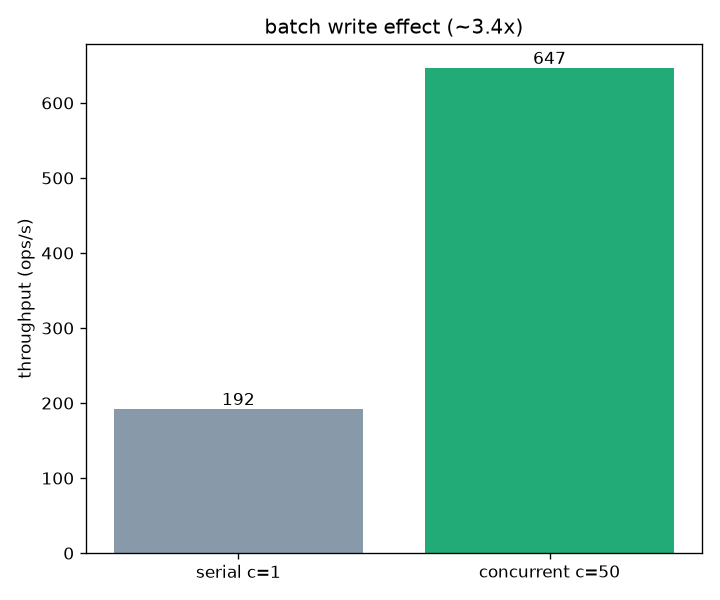
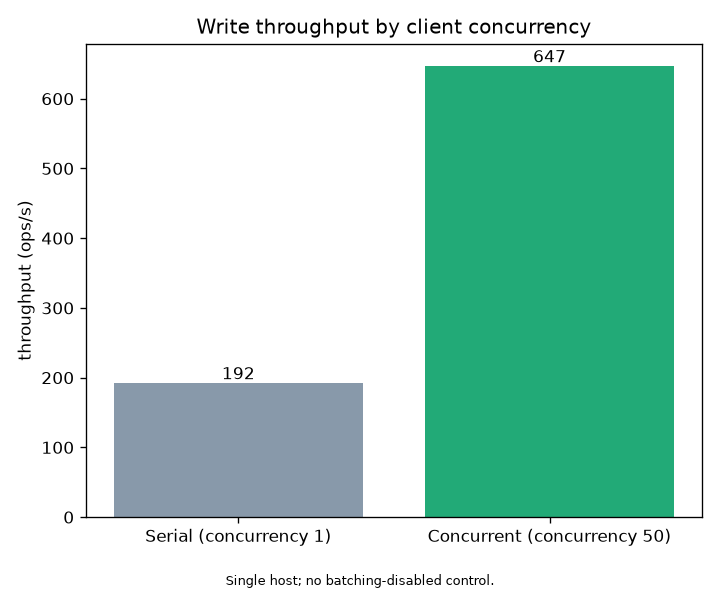
docs: clarify recovery and benchmark evidence

diff --git a/benchmark_raft_sharded.py b/benchmark_raft_sharded.py
@@ -7,7 +7,7 @@ Measurements
 ============
 1. Throughput for `/set`, `/get`, and `/txn` in operations per second.
 2. Per-operation p50, p95, p99, and maximum end-to-end latency.
-3. Batch-write effect: serial `/set` requests versus concurrent requests.
+3. Client concurrency: serial `/set` requests versus concurrent requests.
 4. Shard distribution: keys concentrated on one shard versus spread across
    all shards in the same three-node cluster.
 5. Throughput and p99 latency at concurrency levels 1, 10, 50, 100, and 200.
@@ -488,9 +488,9 @@ def test_batch(cl, total, concurrent_c, repeats):
     """
     Compare serial and concurrent writes from independently cleared data state.
     Serial requests normally occupy one Raft round each. Under concurrency,
-    `batch_loop` can merge up to 20 requests arriving within its 5 ms window.
+    `batch_loop` drains up to 20 requests already queued; 5 ms is its idle wait.
     """
-    print(f"\n=== Batch-write effect: serial c=1 vs concurrent c={concurrent_c} "
+    print(f"\n=== Client concurrency: serial c=1 vs concurrent c={concurrent_c} "
           f"({repeats} runs per arm) ===")
     serial, m_s = median_run(cl, "set_serial",
                              lambda: gen_kv("batch_serial_", total, cl.value_size),
@@ -624,7 +624,9 @@ def plot_pair(pair, labels, title, fname, outdir):
     for b, v in zip(bars, tput):
         ax.text(b.get_x() + b.get_width() / 2, v, f"{v:.0f}",
                 ha="center", va="bottom")
-    fig.tight_layout()
+    fig.text(0.5, 0.025, "Single host; no batching-disabled control.",
+             ha="center", fontsize=8)
+    fig.tight_layout(rect=(0, 0.06, 1, 1))
     p = os.path.join(outdir, fname)
     fig.savefig(p, dpi=120)
     plt.close(fig)
@@ -746,11 +748,11 @@ def main():
             plot_latency_dist(per_op, args.outdir)
         if batch_pair:
             plot_pair(batch_pair, ["serial c=1", f"concurrent c={args.per_op_concurrency}"],
-                      f"batch write effect (~{batch_speedup:.1f}x)",
+                      "Write throughput by client concurrency",
                       "batch_effect.png", args.outdir)
         if shard_pair:
             plot_pair(shard_pair, ["1 shard (concentrated)", f"{num_shards} shards (spread)"],
-                      f"write throughput: concentrated vs spread ({shard_speedup:.2f}x)",
+                      "Single-machine throughput by shard distribution",
                       "shard_scalability.png", args.outdir)
     else:
         print("  WARNING: matplotlib is unavailable; PNG generation skipped")
@@ -764,7 +766,7 @@ def main():
     print("  1. HTTP/1.0 creates a new TCP connection and server thread per request.")
     print("  2. JSON encoding and the Python GIL add CPU and scheduling overhead.")
     print("  3. The legacy JSON backend rewrites the full store on each commit.")
-    print("  4. BATCH_TIMEOUT=5ms trades additional queueing latency for batching opportunities.")
+    print("  4. BATCH_TIMEOUT=5ms is an idle wait, not a fixed batch collection window.")
     print("The benchmark does not isolate these costs and should not be used to attribute")
     print("the observed limit to any single subsystem.")
     print("=" * 70)

diff --git a/README.md b/README.md
@@ -4,16 +4,16 @@
 [![Python](https://img.shields.io/badge/Python-3.12%20%7C%203.14-3776AB?logo=python&logoColor=white)](https://github.com/96528025/distributed-kv/actions/workflows/ci.yml)
 [![MIT](https://img.shields.io/badge/license-MIT-green.svg)](LICENSE)
 
-**A three-process key-value store built in standard-library Python to explore replication, leader failure, and crash recovery.** Clients can contact any node; the node routes each key to its shard leader, which replicates writes to a majority before reporting success. An optional write-ahead log restores committed data after process crashes.
+A Python key-value store with per-shard leaders, replicated in-memory logs, batched writes, and an optional write-ahead log for local applied-state recovery. The default demo runs three processes on one machine and accepts client requests at any node.
 
-The project demonstrates **distributed-systems implementation, storage engineering, failure injection, and observability**. It implements a documented subset of Raft, with remaining safety gaps tracked explicitly. The three shards distribute leadership and replication work; every node still stores every key.
+Each node stores every key. Sharding separates coordination groups; it does not partition storage capacity. The implementation covers a documented subset of Raft, with open safety issues tracked in [RAFT_CORRECTNESS.md](docs/RAFT_CORRECTNESS.md).
 
 ## Engineering highlights
 
 | Capability | What the code does | Where to inspect it |
 | --- | --- | --- |
 | Replicated writes | Per-shard leader routing, concurrent peer RPCs, majority acknowledgements, batches of up to 20 queued operations | [`node_raft_sharded.py`](node_raft_sharded.py): `batch_loop`, `_handle_set`, `_handle_delete` |
-| Election recovery | Persists each shard's term and vote before dependent replies; refuses stale-log candidates and invalid persisted topology | `persist_hard_state`, `_handle_vote`; [`test_raft_correctness.py`](test_raft_correctness.py) |
+| Election recovery | Persists each shard's term and vote before dependent replies; refuses stale-log candidates and a changed persisted shard count | `persist_hard_state`, `_handle_vote`; [`test_raft_correctness.py`](test_raft_correctness.py) |
 | Stale-leader rejection | Requires same-term quorum confirmation before a leader serves `/get`; an isolated old leader returns `503` | `confirm_read_quorum`; [`test_read_quorum.py`](test_read_quorum.py) |
 | Storage recovery | CRC32-framed committed-operation WAL, SHA-256-verified checkpoints, torn-tail recovery, idempotent replay | [`storage.py`](storage.py), [`test_wal.py`](test_wal.py) |
 | Ordered application | Applies every entry covered by a commit, including earlier entries whose client requests timed out | `apply_committed`; [`test_apply_order.py`](test_apply_order.py) |
@@ -69,6 +69,8 @@ Each process hosts all three shard groups. Each group has its own term, vote, le
 
 **Write.** A follower forwards the request to its known shard leader. The leader appends queued operations, sends its retained log window to peers concurrently, waits up to one second for a majority, and applies/persists committed entries before replying. A timeout leaves the entries in the log: a later successful replication round may commit them. There is no client request-ID deduplication, so a timeout is not proof that a write was aborted.
 
+Followers relay the leader's HTTP status and JSON object response, adding `forwarded_by`. A missing key returns `404` through either the leader or a follower. An unreachable leader or an unusable upstream response produces `503`. The forwarding timeout is 0.5 seconds, while the leader's majority wait can take up to one second; a forwarded request can therefore time out before the leader finishes. A timeout does not establish whether a write was committed.
+
 **Read.** A follower forwards `/get`. The leader probes peers with current-term `AppendEntries`, checks that a majority still recognizes its term, and steps down if a higher term is observed. This prevents the tested isolated-old-leader stale read. It is a quorum-validated leader read, with full ReadIndex/application-barrier semantics still open.
 
 **Compaction.** A shard whose log exceeds 20 entries may compact its applied prefix. A follower behind the retained window can install a snapshot. Snapshots currently contain the shared store, so shard isolation during snapshot installation remains a tracked correctness gap.
@@ -83,7 +85,11 @@ Each process hosts all three shard groups. Each group has its own term, vote, le
 | Raft snapshot | Compacted state for follower catch-up | Stores the compaction boundary; current shared-store snapshot scope is tracked as C7 |
 | State-machine WAL | Restores committed key-value operations | Frames contain magic, length, versioned JSON, and CRC32; optional per-commit `fsync` |
 
-The WAL is **not a durable Raft replication log**: uncommitted Raft entries are not persisted. Checkpoints record the store and per-shard applied indexes, use a SHA-256 digest, and publish via `fsync` plus atomic rename before truncating the WAL. Rotation occurs at 1,000 records or 8 MiB. Replay skips already-applied indexes, trims an incomplete final frame, and rejects detected corruption rather than guessing.
+The WAL is **not a durable Raft replication log**: uncommitted Raft entries are not persisted. Checkpoints record the store and per-shard applied indexes, use a SHA-256 digest, and publish via `fsync` plus atomic rename before truncating the WAL. Rotation occurs at 1,000 records or 8 MiB. Replay skips already-applied indexes.
+
+The WAL persists local applied operations, not the Raft replication log. Recovery rejects checksum failures, invalid frame boundaries, implausible lengths, and a frame length that overruns the file when a later complete CRC-valid frame is present. Recovery leaves the WAL unchanged when it rejects corruption. An incomplete final frame may be truncated to the last valid boundary. The length field is not checksummed, so these rules do not detect every possible corruption pattern.
+
+Persisted Raft hard state includes the term and vote. Startup checks the stored shard count; it does not validate a complete membership identity.
 
 Default WAL appends flush to the OS; `KV_FSYNC=1` requests stronger disk durability. Process-kill tests exercise process-crash recovery, not physical power-loss recovery. See [`docs/ARCHITECTURE.md`](docs/ARCHITECTURE.md) for locking and persistence ordering.
 
@@ -130,7 +136,9 @@ python3 test_timers.py
 | `test_timers.py` | 5 | Wall-clock changes do not change election or lock-lease timing |
 | `test_read_quorum.py` | 4 | Quorum decisions and real `SIGSTOP`/`SIGCONT` stale-leader regression |
 
-The process-based suites manage local node processes and fixed ports; run them in an isolated checkout without another demo cluster using those ports.
+The test suites exercise real node processes, leader suspension, process restarts, WAL corruption, checkpoint recovery, HTTP contracts, transactions, and ordered application. The checks establish the behavior of those scenarios; they do not prove complete Raft safety.
+
+`test_raft_sharded.py` prints its passing-check count and exits unsuccessfully if any check fails. It manages only the node processes it starts and keeps generated state in a temporary directory. Cleanup does not terminate nodes from other checkouts.
 
 ## Measured performance and its limits
 

diff --git a/docs/ARCHITECTURE.md b/docs/ARCHITECTURE.md
@@ -48,8 +48,8 @@ request router -- hash(key) --> shard Raft group
   +---- forward to leader --------+
                                   |
                                   +--> replicate to a majority
-                                  +--> persist committed state
-                                  +--> apply to local state machine
+                                  +--> apply the committed prefix in order
+                                  +--> persist local applied state
                                   +--> respond
 ```
 
@@ -91,8 +91,8 @@ Reads route to the shard leader. Before returning its local value, the leader pr
 majority in its current term. If it cannot confirm a majority, it refuses the read. This
 prevents the demonstrated stale-old-leader failure in which a partitioned former leader
 continues serving old state. A follower relays the leader's status code and body
-unchanged, adding `forwarded_by`, so a missing key is a 404 through any node; 503
-`leader unreachable` is reserved for a transport failure.
+with `forwarded_by` added to JSON objects, so a missing key is a 404 through any node.
+An unreachable leader or an unusable upstream response produces 503.
 
 This barrier is narrower than the Raft ReadIndex protocol. It does not independently prove
 that the leader has applied every committed entry before reading. Complete linearizability
@@ -249,3 +249,11 @@ The order is safety before speed:
 This roadmap is intentionally test-shaped: every change should begin with a reproducible
 failure, state the invariant it restores, and land with a regression that fails on the old
 implementation.
+
+## HTTP forwarding and recovery details
+
+Followers relay the leader's HTTP status and JSON object response, adding `forwarded_by`. A missing key returns `404` through either the leader or a follower. An unreachable leader or an unusable upstream response produces `503`. The forwarding timeout is 0.5 seconds, while the leader's majority wait can take up to one second; a forwarded request can therefore time out before the leader finishes. A timeout does not establish whether a write was committed.
+
+The WAL persists local applied operations, not the Raft replication log. Recovery rejects checksum failures, invalid frame boundaries, implausible lengths, and a frame length that overruns the file when a later complete CRC-valid frame is present. Recovery leaves the WAL unchanged when it rejects corruption. An incomplete final frame may be truncated to the last valid boundary. The length field is not checksummed, so these rules do not detect every possible corruption pattern.
+
+Persisted Raft hard state includes the term and vote. Startup checks the stored shard count; it does not validate a complete membership identity.

diff --git a/benchmarks/README.md b/benchmarks/README.md
@@ -70,7 +70,7 @@ The run used 1,500 requests per test and five repetitions per comparison point.
 |---|---:|---:|---:|---:|---:|---|
 | **`/get` (historical leader-routed read)** | **~2,400 ops/s** | 16 ms | 36 ms | 124 ms | 238 ms | Direct leader routing and an in-memory read; this run predates the current quorum-validation barrier. |
 | **`/set` (batched write)** | ~700 ops/s | 27 ms | 149 ms | 375 ms | 2.0 s | Batch queue, Raft replication, and full-store persistence. |
-| **`/txn` (cross-shard 2PC)** | **~45 ops/s** | 890 ms | 2.4 s | 3.1 s | 6.3 s | Prepare and commit across participants; some requests aborted under load. |
+| **`/txn` (cross-shard 2PC)** | **40.5 ops/s** | 890 ms | 2.4 s | 3.1 s | 6.3 s | Prepare and commit across participants; some requests aborted under load. |
 
 ![Latency distribution by operation](latency_distribution.png)
 
@@ -78,14 +78,14 @@ In this historical run, reads were faster than writes, and transactions were
 the slowest path. The paths perform materially different work, and the read
 number does not include the quorum-validation cost in the current implementation.
 
-### 2. Batch-write comparison
+### 2. Client-concurrency comparison
 
 | Scenario | Throughput | p50 | p99 |
 |---|---:|---:|---:|
 | Serial writes (concurrency 1; one request per Raft round) | ~190 ops/s | 5 ms | 12 ms |
 | Concurrent writes (concurrency 50; up to 20 requests drained from the queue per round) | ~647 ops/s median (250–1,480 across five trials) | 22 ms | 358 ms |
 
-![Batch-write comparison](batch_effect.png)
+![Write throughput by client concurrency](batch_effect.png)
 
 In the recorded median run, concurrent load raised write throughput 3.37x
 (192 -> 647 ops/s) while increasing tail latency; the five concurrent trials spanned

diff --git a/benchmarks/storage_benchmark.md b/benchmarks/storage_benchmark.md
@@ -109,13 +109,8 @@ batch size.
 
 - The tables are the **median** of 3 runs per point; `storage_results_*.json` also stores
   `throughput_min/max`.
-- On a single machine with the OS page cache, absolute throughput fluctuates with background
-  load (WAL single-write throughput moves between roughly 60k and 90k ops/s). The
-  **relative** conclusions — JSON degrading linearly with scale, WAL staying flat — hold in
-  every run.
-- fsync=off: `flush()` hands data to the OS page cache, which is enough to survive a
-  **process crash or SIGKILL** (see test 14 in `test_wal.py`). Surviving **power loss**
-  requires `--fsync`, which reduces throughput noticeably by adding a disk sync per write;
-  save a separate `storage_results_<date>_fsync.*` to compare.
+- In the recorded workloads, rewriting the JSON store became more expensive as the store grew, while appending WAL records avoided rewriting the full store on each commit. These measurements do not establish constant WAL cost for every workload: checkpoints, rotation, record size, and synchronization also contribute to cost.
+
+- With fsync disabled, flushed data may remain in the operating system's page cache. Process-kill recovery tests do not simulate power loss. Enabling `--fsync` adds synchronization calls, but this repository has not established a power-loss guarantee across filesystems and storage devices.
 - This is a **storage-layer microbenchmark**. It does not represent end-to-end cluster
   throughput, which is still dominated by HTTP, Raft and the GIL — see the project README.
